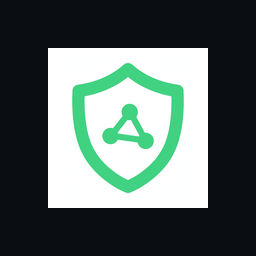
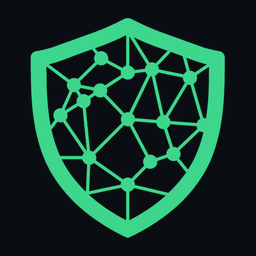
Unify transparent shield branding and native menu-to-check flow

diff --git a/native_workspace.py b/native_workspace.py
@@ -30,13 +30,27 @@ def is_busy() -> bool:
     return bool(_CONTROLLER is not None and _CONTROLLER.busy)
 
 
-def open_workspace(section: str = "Workspace") -> None:
+def open_workspace(section: str = "Workspace", status_item=None) -> None:
     global _CONTROLLER
     if _CONTROLLER is None:
         _CONTROLLER = _build()
     _CONTROLLER.sections.selectItemWithTitle_(section)
     _CONTROLLER.sectionChanged_(None)
     from AppKit import NSApp
+    if status_item is not None:
+        try:
+            button = status_item.button()
+            window = button.window()
+            screen = window.screen()
+            anchor = window.convertRectToScreen_(button.convertRect_toView_(button.bounds(), None))
+            visible = screen.visibleFrame()
+            size = _CONTROLLER.panel.frame().size
+            x = max(visible.origin.x + 8, min(anchor.origin.x + anchor.size.width / 2 - size.width / 2,
+                                             visible.origin.x + visible.size.width - size.width - 8))
+            y = max(visible.origin.y + 8, anchor.origin.y - size.height - 28)
+            _CONTROLLER.panel.setFrameOrigin_((x, y))
+        except (AttributeError, TypeError):
+            _CONTROLLER.panel.center()
     NSApp.activateIgnoringOtherApps_(True)
     _CONTROLLER.panel.makeKeyAndOrderFront_(None)
 
@@ -85,19 +99,27 @@ def _build():
             def entry(text, y):
                 field = NSTextField.alloc().initWithFrame_(NSMakeRect(18, y, 554, 28))
                 field.setStringValue_(text);content.addSubview_(field);return field
-            self.sections = NSPopUpButton.alloc().initWithFrame_pullsDown_(NSMakeRect(18, 616, 330, 28), False)
-            self.sections.addItemsWithTitles_(['Status', 'Attack catalog', 'Policy checks', 'Activity and evidence', 'Latest analysis', 'Workspace', 'About'])
+            self.sections = NSPopUpButton.alloc().initWithFrame_pullsDown_(NSMakeRect(18, 540, 330, 28), False)
+            self.sections.addItemsWithTitles_(['Status', 'Attack catalog', 'Policy checks', 'Activity and evidence', 'Latest analysis', 'Safety check', 'Workspace', 'About'])
             self.sections.setTarget_(self);self.sections.setAction_('sectionChanged:');content.addSubview_(self.sections)
-            button('Show details', 'sectionChanged:', 365, 616, 205)
-            self.scenarios = NSPopUpButton.alloc().initWithFrame_pullsDown_(NSMakeRect(18, 578, 330, 28), False)
+            button('Show details', 'sectionChanged:', 365, 540, 205)
+            mark = NSImage.alloc().initWithContentsOfFile_(str(Path(__file__).resolve().parent / 'assets' / 'brand' / 'swarmguard-mark.png'))
+            brand = NSImageView.alloc().initWithFrame_(NSMakeRect(18, 596, 36, 36))
+            brand.setImage_(mark);brand.setImageScaling_(0);content.addSubview_(brand)
+            title = NSTextField.labelWithString_('SwarmGuard')
+            title.setFrame_(NSMakeRect(66, 608, 280, 24));content.addSubview_(title)
+            self.headline = label('Ready to check. This is not whole-Mac protection.', 572, 24)
+            self.home_button = button('Run safety check', 'checkClicked:', 365, 596, 205)
+            before_details = len(content.subviews())
+            self.scenarios = NSPopUpButton.alloc().initWithFrame_pullsDown_(NSMakeRect(18, 500, 330, 28), False)
             self.scenarios.addItemsWithTitles_(['Hidden document trap', 'Stolen keys over network', 'Webpage hijack'])
             content.addSubview_(self.scenarios)
-            button('Review AI demo...', 'demoClicked:', 365, 578, 205)
-            button('Sound preview', 'soundClicked:', 18, 540, 170)
-            button('Clear latest notice', 'clearClicked:', 200, 540, 175)
-            button('Refresh status', 'sectionChanged:', 385, 540, 185)
-            button('View latest visual evidence', 'visualClicked:', 18, 502, 265)
-            self.top_views = list(content.subviews())[2:]
+            button('Review AI demo...', 'demoClicked:', 365, 500, 205)
+            button('Sound preview', 'soundClicked:', 18, 462, 170)
+            button('Clear latest notice', 'clearClicked:', 200, 462, 175)
+            button('Refresh status', 'sectionChanged:', 385, 462, 185)
+            button('View latest visual evidence', 'visualClicked:', 18, 424, 265)
+            self.top_views = list(content.subviews())[before_details:]
             before_workspace = len(content.subviews())
             label('Offline copied files only. No host mounts, keys, downloads or cloud agents.\nAgents running elsewhere are not protected.', 598, 44)
             self.check_button = button('Run complete offline check', 'checkClicked:', 18, 556, 265)
@@ -114,7 +136,7 @@ def _build():
             self.workspace_views = list(content.subviews())[before_workspace:]
             for view in self.workspace_views:
                 frame = view.frame()
-                view.setFrameOrigin_((frame.origin.x, frame.origin.y - 32))
+                view.setFrameOrigin_((frame.origin.x, frame.origin.y - 110))
             scroll = NSScrollView.alloc().initWithFrame_(NSMakeRect(18, 48, 554, 229))
             self.scroll = scroll
             scroll.setHasVerticalScroller_(True)
@@ -139,7 +161,12 @@ def _build():
                 view.setHidden_(not workspace)
             for view in self.top_views:
                 view.setHidden_(workspace)
-            self.scroll.setFrame_(NSMakeRect(18, 48, 554, 197 if workspace else 430))
+            details = self.mode not in ('Status', 'Safety check', 'Workspace')
+            for view in self.top_views:
+                view.setHidden_(not details)
+            self.scroll.setFrame_(NSMakeRect(18, 48, 554, 120 if workspace else (350 if details else 470)))
+            if self.mode == 'Safety check':
+                self.results.setString_(getattr(self, 'last_check', 'Not checked yet.\n\nChoose Run safety check above. We will test a disposable offline container and synthetic file copies, then remove it.\n\nNo private files, downloads, network or AI credits. If it fails, stop and review the result.'));return
             if workspace:
                 self.results.setString_('Offline scratch only. Run the complete check first. No cloud agent is installed.');return
             try:
@@ -199,10 +226,12 @@ def _build():
                 result, incident = run_autonomous_scenario(scenario, trigger='native_user_approved_demo')
                 self.last_analysis = result
                 return json.dumps({'result': result, 'incident': incident}, indent=2, ensure_ascii=False), None
-            self.startWorker_(operation)
+            self.startWorker_(operation, kind='demo')
 
         def setBusy_(self, value):
             self.busy = bool(value)
+            self.home_button.setEnabled_(not self.busy)
+            self.sections.setEnabled_(not self.busy)
             for view in (self.check_button, self.pick_button, self.run_button, self.command, self.exports):
                 view.setEnabled_(not self.busy)
             self.save_button.setEnabled_(not self.busy and self.download is not None)
@@ -229,10 +258,12 @@ def _build():
                     self.paths = [];self.selection.setStringValue_('Selection refused. Choose safe source files.')
                     self.showError_(str(exc))
 
-        def startWorker_(self, operation):
+        def startWorker_(self, operation, kind='workspace'):
+            self.operation_kind = kind
             self.setBusy_(True)
             self.download = None
-            self.results.setString_('Running offline. No private host folders or network access. Waiting for cleanup...')
+            self.headline.setStringValue_('Checking... please wait for the result and cleanup.')
+            self.results.setString_('Running the approved synthetic AI demo. This can use API credits. Keep SwarmGuard open.' if kind == 'demo' else 'Running in a disposable offline workspace.\nChecking restrictions, synthetic file copies, then cleanup.\n\nKeep SwarmGuard open. No network or AI credits are used by offline checks.')
             def worker():
                 try:
                     message, download = operation()
@@ -245,11 +276,16 @@ def _build():
 
         def finished_(self, message):
             self.results.setString_(str(message))
+            if self.operation_kind == 'check':
+                self.last_check = str(message)
+            self.headline.setStringValue_('Finished. Review the result below before continuing.')
             self.setBusy_(False)
 
         def checkClicked_(self, _sender):
             if self.busy:
                 return
+            self.sections.selectItemWithTitle_('Safety check')
+            self.sectionChanged_(None)
             def operation():
                 from isolation_check import check, check_workspace
                 result = check()
@@ -260,10 +296,11 @@ def _build():
                     result['passed'] = copied['passed']
                 elif result.get('detail'):
                     lines.append(result['detail'])
-                lines.insert(0, 'Offline check passed.' if result['passed'] else 'Offline check failed or unavailable.')
+                lines.insert(0, 'Safety check passed.' if result['passed'] else 'Safety check needs attention.')
+                lines.append('Next: choose Workspace to run on selected source copies.' if result['passed'] else 'Next: leave your project unchanged. Send this result for help; do not bypass restrictions.')
                 lines.extend(['Checked: ' + result['checked_at'], 'Not whole-Mac protection. No installed cloud agent.'])
                 return '\n'.join(lines), None
-            self.startWorker_(operation)
+            self.startWorker_(operation, kind='check')
 
         def runClicked_(self, _sender):
             if self.busy:

diff --git a/menubar.py b/menubar.py
@@ -182,10 +182,10 @@ def open_full_console(*, workspace: bool = False) -> str:
 open_protector = open_full_console
 
 
-def open_offline_workspace() -> str:
+def open_offline_workspace(status_item=None) -> str:
     """Native menu-owned workspace. Never starts or opens a browser."""
     from native_workspace import open_workspace
-    open_workspace()
+    open_workspace(status_item=status_item)
     return "Opened native offline workspace."
 
 
@@ -547,7 +547,7 @@ def _build_panel_controller(state: _ProtectorPanelState) -> Any:
             content.addSubview_(refresh_btn)
 
             proof_btn = _make_button(
-                "Run safe tool checks...", "proofsClicked:", self, primary=True
+                "Safety check...", "proofsClicked:", self, primary=True
             )
             proof_btn.setFrame_(NSMakeRect(120, btn_y, 140, 30))
             content.addSubview_(proof_btn)
@@ -777,14 +777,10 @@ def _run_rumps() -> None:
             self.menu = [
                 header,
                 None,
-                self._enforce_item,
-                self._gate_item,
-                None,
-                *self._deny_items,
-                None,
-                rumps.MenuItem("Status and activity...", callback=self._on_open),
-                rumps.MenuItem("Run safe tool checks...", callback=self._on_proofs),
-                rumps.MenuItem("Isolated file workspace...", callback=self._on_workspace),
+                rumps.MenuItem("Open SwarmGuard...", callback=self._on_open),
+                rumps.MenuItem("Safety check...", callback=self._on_proofs),
+                rumps.MenuItem("Activity...", callback=self._on_activity),
+                rumps.MenuItem("Workspace...", callback=self._on_workspace),
                 rumps.MenuItem("Quit SwarmGuard", callback=self._on_quit),
             ]
             self._apply_snapshot(_status_snapshot())
@@ -804,16 +800,18 @@ def _run_rumps() -> None:
 
         def _on_open(self, _sender: Any) -> None:
             from native_workspace import open_workspace
-            open_workspace(section="Status")
+            open_workspace(section="Status", status_item=_rumps_status_item(self))
 
         def _on_proofs(self, _sender: Any) -> None:
-            rumps.notification("SwarmGuard", "Free proofs", "Running IDE + MCP demos…")
-            msg = run_free_proofs()
-            self._apply_snapshot(_status_snapshot())
-            rumps.notification("SwarmGuard", "Free proofs", msg[:180])
+            from native_workspace import open_workspace
+            open_workspace(section="Safety check", status_item=_rumps_status_item(self))
+
+        def _on_activity(self, _sender: Any) -> None:
+            from native_workspace import open_workspace
+            open_workspace(section="Activity and evidence", status_item=_rumps_status_item(self))
 
         def _on_workspace(self, _sender: Any) -> None:
-            open_offline_workspace()
+            open_offline_workspace(_rumps_status_item(self))
 
         def _on_console(self, _sender: Any) -> None:
             msg = open_full_console()
@@ -822,7 +820,7 @@ def _run_rumps() -> None:
         def _on_quit(self, _sender: Any) -> None:
             from native_workspace import is_busy
             if is_busy():
-                open_offline_workspace()
+                open_offline_workspace(_rumps_status_item(self))
                 return
             _release_instance_lock()
             rumps.quit_application()
@@ -892,9 +890,6 @@ def _run_appkit() -> None:
             self.gate_item = NSMenuItem.alloc().initWithTitle_action_keyEquivalent_(
                 "MCP gate: …", None, ""
             )
-            self.menu.addItem_(self.enforce_item)
-            self.menu.addItem_(self.gate_item)
-            self.menu.addItem_(NSMenuItem.separatorItem())
 
             self.deny_items = []
             for _ in range(DENY_MENU_LIMIT):
@@ -902,24 +897,28 @@ def _run_appkit() -> None:
                     "(no recent denials)", None, ""
                 )
                 self.deny_items.append(item)
-                self.menu.addItem_(item)
 
-            self.menu.addItem_(NSMenuItem.separatorItem())
 
             open_item = NSMenuItem.alloc().initWithTitle_action_keyEquivalent_(
-                "Status and activity...", "openProtector:", ""
+                "Open SwarmGuard...", "openProtector:", ""
             )
             open_item.setTarget_(self)
             self.menu.addItem_(open_item)
 
             proof_item = NSMenuItem.alloc().initWithTitle_action_keyEquivalent_(
-                "Run safe tool checks...", "runProofs:", ""
+                "Safety check...", "runProofs:", ""
             )
             proof_item.setTarget_(self)
             self.menu.addItem_(proof_item)
 
+            activity_item = NSMenuItem.alloc().initWithTitle_action_keyEquivalent_(
+                "Activity...", "openActivity:", ""
+            )
+            activity_item.setTarget_(self)
+            self.menu.addItem_(activity_item)
+
             workspace_item = NSMenuItem.alloc().initWithTitle_action_keyEquivalent_(
-                "Isolated file workspace...", "openWorkspace:", ""
+                "Workspace...", "openWorkspace:", ""
             )
             workspace_item.setTarget_(self)
             self.menu.addItem_(workspace_item)
@@ -960,14 +959,18 @@ def _run_appkit() -> None:
 
         def openProtector_(self, _sender) -> None:
             from native_workspace import open_workspace
-            open_workspace(section="Status")
+            open_workspace(section="Status", status_item=self.status_item)
 
         def runProofs_(self, _sender) -> None:
-            run_free_proofs()
-            self.applySnapshot_(_status_snapshot())
+            from native_workspace import open_workspace
+            open_workspace(section="Safety check", status_item=self.status_item)
+
+        def openActivity_(self, _sender) -> None:
+            from native_workspace import open_workspace
+            open_workspace(section="Activity and evidence", status_item=self.status_item)
 
         def openWorkspace_(self, _sender) -> None:
-            open_offline_workspace()
+            open_offline_workspace(self.status_item)
 
         def openConsole_(self, _sender) -> None:
             open_full_console()
@@ -975,7 +978,7 @@ def _run_appkit() -> None:
         def quitApp_(self, _sender) -> None:
             from native_workspace import is_busy
             if is_busy():
-                open_offline_workspace()
+                open_offline_workspace(self.status_item)
                 return
             if self.timer is not None:
                 self.timer.invalidate()

diff --git a/tests/test_brand.py b/tests/test_brand.py
@@ -1,0 +1,17 @@
+"""Frozen logo alpha/identity regressions, not Mac-rendering evidence."""
+import unittest
+from pathlib import Path
+from PIL import Image
+ROOT=Path(__file__).resolve().parents[1]/'assets'/'brand'
+class BrandTests(unittest.TestCase):
+    def test_template_is_not_opaque_square(self):
+        image=Image.open(ROOT/'swarmguard-icon-menu-template.png').convert('RGBA')
+        self.assertEqual(image.size,(44,44))
+        alpha=image.getchannel('A')
+        self.assertEqual(alpha.getextrema(),(0,255))
+        self.assertEqual(alpha.getpixel((0,0)),0)
+        self.assertLess(sum(v>0 for v in alpha.getdata()),44*44*.7)
+    def test_panel_and_menu_share_same_mark(self):
+        a=Image.open(ROOT/'swarmguard-mark.png').convert('RGBA')
+        b=Image.open(ROOT/'swarmguard-icon-menu.png').convert('RGBA')
+        self.assertEqual(a.tobytes(),b.tobytes())

diff --git a/tests/test_native_workspace.py b/tests/test_native_workspace.py
@@ -31,3 +31,13 @@ class MenuLanguageTests(unittest.TestCase):
         self.assertNotIn('MCP',menubar._gate_label({}))
         self.assertIn('may include tests',menubar._activity_summary([{'rule':'deny_real_env'}]))
         self.assertNotIn('deny_',menubar._deny_label({'rule':'deny_real_env'}))
+
+class MenuFlowTests(unittest.TestCase):
+    def test_no_direct_tests_in_menu_handlers(self):
+        import inspect,menubar
+        source=inspect.getsource(menubar)
+        self.assertIn('open_workspace(section="Safety check"',source)
+        for name in ('_on_proofs','runProofs_'):
+            body=source.split('def '+name,1)[1].split('\n        def ',1)[0]
+            self.assertNotIn('run_free_proofs()',body)
+            self.assertIn('Safety check',body)

diff --git a/assets/brand/BRAND.md b/assets/brand/BRAND.md
@@ -39,9 +39,9 @@ python tools/generate_brand_muse.py
 
 | File | Role |
 |------|------|
-| `swarmguard-mark.png` | Square mark (RGBA). Product icon, dashboard hero. |
-| `swarmguard-icon-menu.png` | High-contrast menu-bar / panel header mark. |
-| `swarmguard-icon-menu-template.png` | Black silhouette for AppKit template tinting. |
+| `swarmguard-mark.png` | Transparent lattice shield (RGBA). Shared identity for native panel and console. |
+| `swarmguard-icon-menu.png` | Same transparent lattice shield as the main mark. |
+| `swarmguard-icon-menu-template.png` | 44px transparent black-alpha derivative for 22pt @2x AppKit template tinting. |
 | `swarmguard-icon-menu-dark.png` | Packed light-on-ink preview (docs). |
 | `swarmguard-popout-mock.png` | Muse Image UX target for the native Protector panel. |
 | `swarmguard-wordmark.png` | Optional horizontal lockup (if present). |
@@ -81,3 +81,11 @@ Quit via **Quit SwarmGuard menu**, then:
 ```
 
 If a stale lock blocks relaunch: `rm /tmp/swarmguard-menubar.pid` (only when no menubar process is running).
+
+## Alpha correction
+
+The former template was fully opaque and appeared as a solid square on macOS.
+The reviewed lattice shield is now the single runtime identity; menu and panel
+color marks are identical, and the small template uses that same alpha shape.
+No runtime logo generation or inference. Inspect light/dark small previews before
+changing these frozen assets. Legacy wordmark/mock artwork is reference only.

diff --git a/docs/ISOLATED_WORKSPACES.md b/docs/ISOLATED_WORKSPACES.md
@@ -166,3 +166,21 @@ include tests; they do not trigger an attack-alert badge. Status/activity and
 isolated-workspace actions select their native sections directly. No active tool
 connection means no connected-tool protection is confirmed, regardless of policy
 configuration. Menu labels/layout still need an actual Mac screenshot check.
+
+## End-to-end native preview flow
+
+1. Click the shared shield mark. The dropdown contains only basic commands:
+   Open SwarmGuard, Safety check, Activity, Workspace, Quit.
+2. Open SwarmGuard shows native status with the same shield and a primary Run
+   safety check action. Tool-connection and scope explanations live here, not as
+   diagnostic rows flooding the dropdown.
+3. Safety check opens its native section in the popout without silently starting.
+   Run shows a waiting state while restrictions/copy/export/cleanup complete.
+4. The result stays in the popout, with pass/attention, tested scope and next
+   action. Failure says not to bypass restrictions. Activity/details are separate.
+5. Workspace explicitly selects/reviews source copies and exports. Originals are
+   never overwritten. API demos are secondary and require credit-use confirmation.
+
+The panel anchors below the status item when that anchor is available. Pixel
+placement on macOS still requires verification. Asset previews are real rendered
+light/dark small-alpha checks, not a substitute for native screenshot validation.
